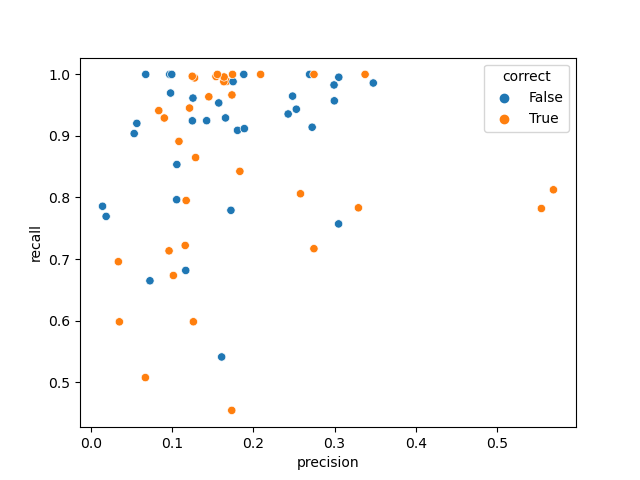
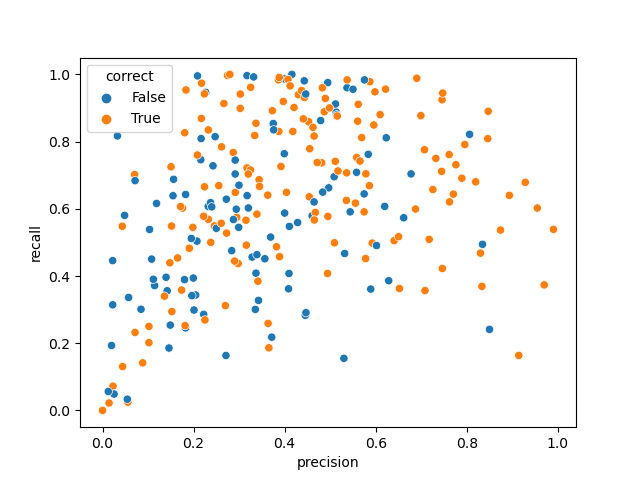
update

diff --git a/source/tf2/usage/evaluate.py b/source/tf2/usage/evaluate.py
@@ -1,16 +1,8 @@
-print('e')
-
 import os
 import numpy as np
 from sklearn.metrics import balanced_accuracy_score
 from scipy import spatial
-
-print('d')
-
 from default_config.util import *
-
-print('c')
-
 from tf2.usage.predictor import Predictor
 
 continue_running = False
@@ -24,10 +16,8 @@ precom_dir = '/data02/daniel/masif/data_preparation/04a-precomputation_12A/preco
 ligand_model_path = '/home/daniel.monyak/software/masif/source/tf2/masif_ligand/kerasModel/savedModel'
 ligand_site_ckp_path = '/home/daniel.monyak/software/masif/source/tf2/ligand_site/kerasModel/ckp'
 
-print('a')
-
-thresh = 0.9
-pred = Predictor(ligand_model_path, ligand_site_ckp_path, threshold = thresh)
+thresh = 0.5
+pred = Predictor(ligand_model_path, ligand_site_ckp_path, ligand_threshold = thresh)
 
 listDir = '/home/daniel.monyak/software/masif/data/masif_ligand/lists'
 fileName = 'test_pdbs_sequence.npy'
@@ -52,7 +42,8 @@ else:
         with open(fi, 'w') as f:
             pass
 
-print('b')
+break_i = 2
+
 n_test = len(pdbs_left)
 dev = '/GPU:0'
 with tf.device(dev):
@@ -74,9 +65,6 @@ with tf.device(dev):
                 )
             ).astype(str)
             
-            #if len(all_ligand_coords) == 0:
-            #    continue
-            
             ligand_coords = all_ligand_coords[0]
             tree = spatial.KDTree(xyz_coords)
             pocket_points_true = tree.query_ball_point(ligand_coords, 3.0)
@@ -85,7 +73,6 @@ with tf.device(dev):
             overlap = np.intersect1d(pocket_points_true, pocket_points_pred)
             recall = len(overlap)/len(pocket_points_true)
             precision = len(overlap)/len(pocket_points_pred)
-            #f1 = 2*recall*precision / (recall + precision)
             
             ligand_true = all_ligand_types[0]
             ligandIdx_true = ligand_list.index(ligand_true)
